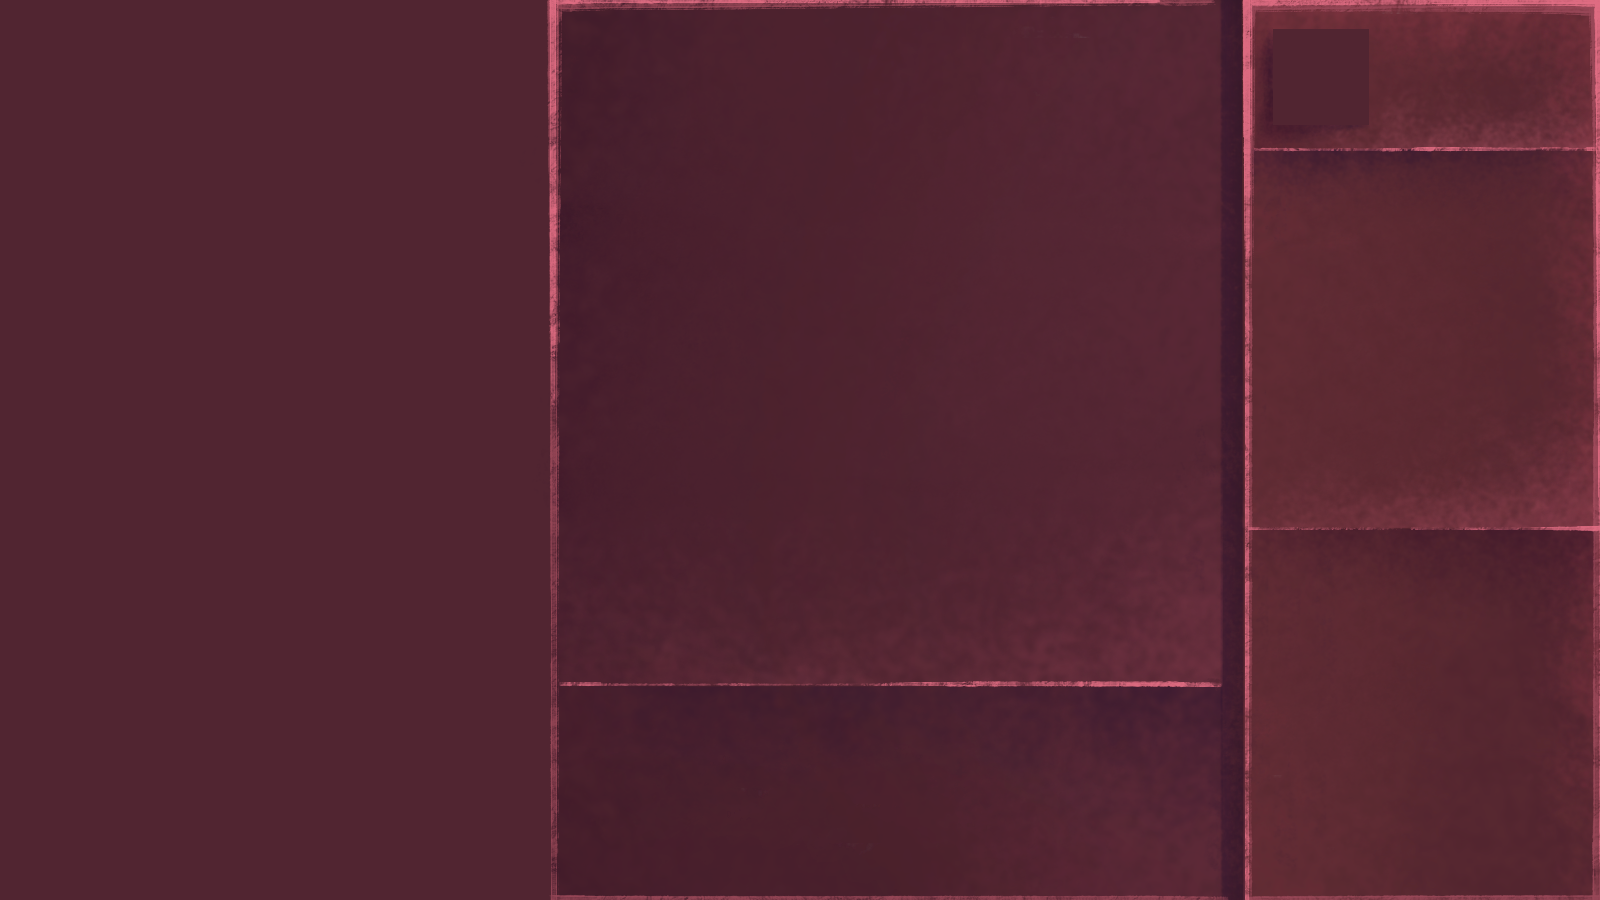
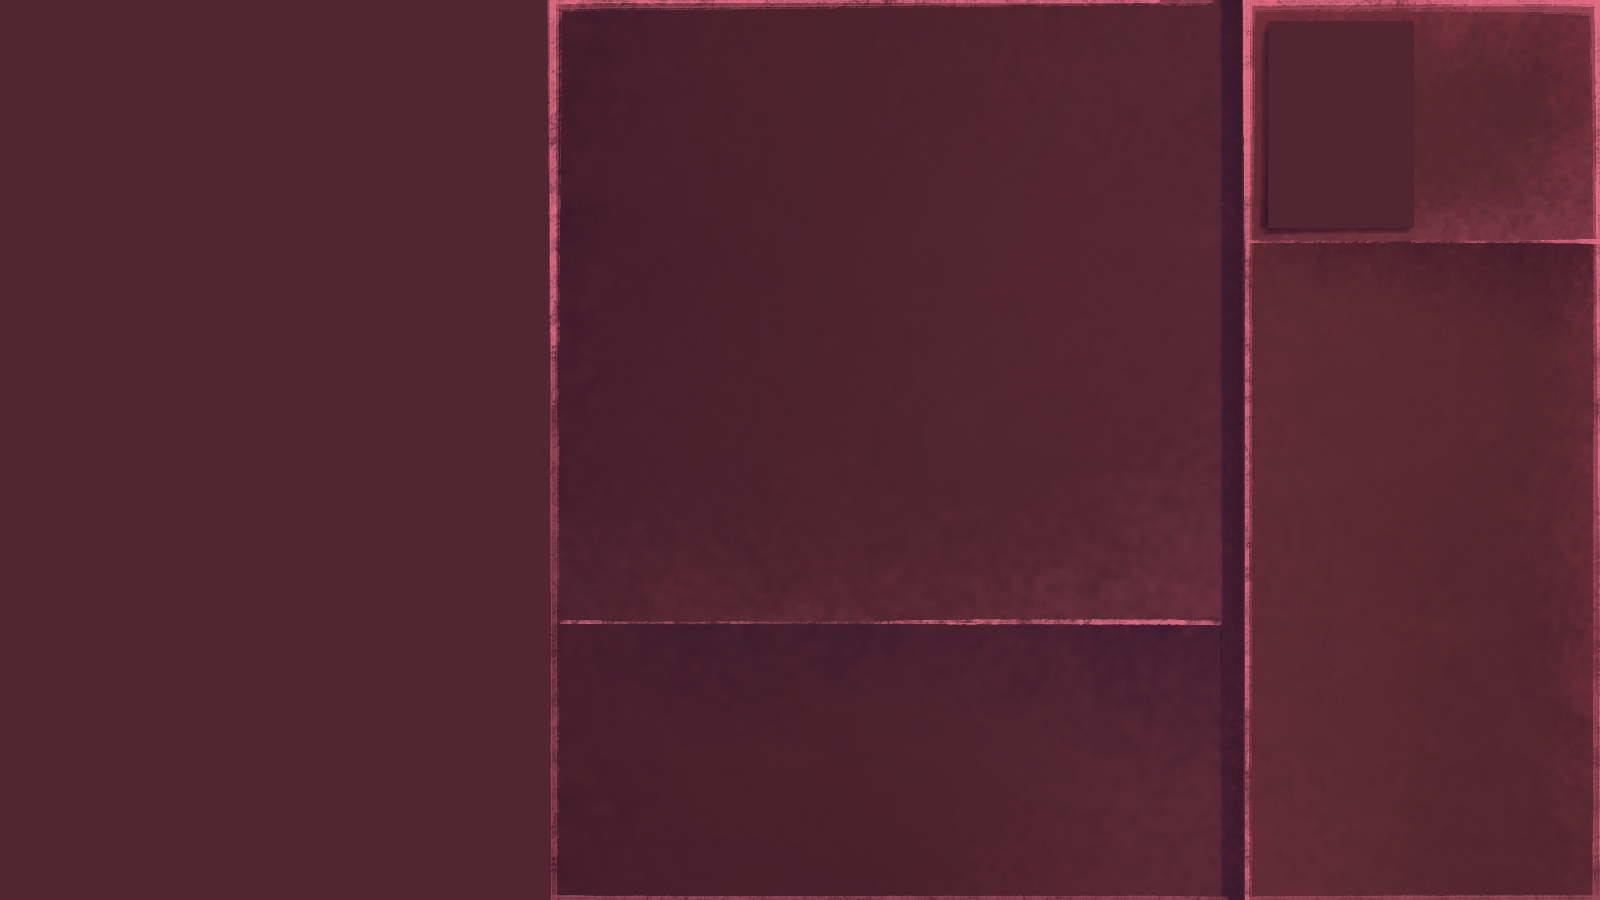
Hud dinâmico com barras e novos assets adicionados
Mudanças:
- Novos assets de telas (modificados após feedback);
- Novos assets de cartas (modificados visando melhor leitura de texto);
- Novos assets para HUD dinâmico (barras);
- HUD dinâmico com barras coloridas funcional;
- Pequena atualização no sprite do diabrete (cauda);

Sugestão de próximos passos:
- Fazer renderização dinâmica de textos das cartas (retirar texto do png, renderizar na engine);
    - Alternativa: Encontrar resolução menor e pré-renderizar pngs com texto nesse tamanho que será usado;
- Fazer implementação simples dos botões do menu principal;
- Implementar tela de exploração.

diff --git a/Rest in Peace/CombatState.cpp b/Rest in Peace/CombatState.cpp
@@ -89,7 +89,7 @@ void CombatState::LoadOpponent(string type) {
 void CombatState::LoadPlayerProfile() {
 	// carrega avatar
 	GameObject* avatar = new GameObject;
-	Component* mugshot = new Sprite(*avatar, "img/MC/avatar.png", 1, 0);
+	Component* mugshot = new Sprite(*avatar, "img/MC/avatar v2.png", 1, 0);
 	avatar->AddComponent(mugshot);
 	avatar->box.MoveThis(*new Vec2(AVATAR_POS_X,AVATAR_POS_Y));
 	AddObject(avatar);
@@ -101,40 +101,104 @@ void CombatState::LoadPlayerProfile() {
 	white.b = 255;
 	white.a = 255;
 
+	SDL_Color black;
+	black.r = 0;
+	black.g = 0;
+	black.b = 0;
+	black.a = 0;
+
+	GameObject* name = new GameObject;
+	Component* nametext = new Text(*name,
+							  "font/nk57-monospace-no-rg.otf", 40,
+							  Text::TextStyle::BLENDED,
+							  "Sofia",
+							  white, 0);
+	name->AddComponent(nametext);
+	name->box.SetCenterPosition(*new Vec2(1505, 40));
+	AddObject(name);
+
 	Player* player = Player::GetInstance();
 
-	string hp = "HP: " + to_string(player->GetHP()) + "/" + to_string(PLAYER_MAX_HP);
+	// Comeca com 5 armor para demonstração
+	player->GainArmor(5);
+
+	// Carrega HUD HP -------------------
+	GameObject* redbar = new GameObject;
+	Component* redbar_img = new Sprite(*redbar, "img/resources/red bar.png", 1, 0);
+	redbar->AddComponent(redbar_img);
+	redbar->box.SetDimensions(HUDBAR_W, HUDBAR_H);
+	redbar->box.MoveThis(*new Vec2(HUD_POS_X, HUD_POS_Y));
+	AddObject(redbar);
+
+	GameObject* hpbar = new GameObject;
+	Component* hpbar_img = new Sprite(*hpbar, "img/resources/green bar.png", 1, 0);
+	hpbar->AddComponent(hpbar_img);
+	hpbar->box.SetDimensions(HUDBAR_W * ((float)player->GetHP()/PLAYER_MAX_HP), HUDBAR_H);
+	hpbar->box.MoveThis(*new Vec2(HUD_POS_X, HUD_POS_Y));
+	playerData.push_back(hpbar);
+
+	string hp = "Vida: " + to_string(player->GetHP()) + "/" + to_string(PLAYER_MAX_HP);
 	GameObject* go_hpdata = new GameObject();
 	Text* hpdata = new Text(*go_hpdata,
-						  "font/nk57-monospace-no-rg.otf", 30,
+						  "font/nk57-monospace-no-rg.otf", 15,
 						  Text::TextStyle::BLENDED,
 						  hp,
 						  white, 0);
 	go_hpdata->AddComponent((Component*) hpdata);
-	go_hpdata->box.SetPosition(*new Vec2(1400,20));
+	go_hpdata->box.SetCenterPosition(redbar->box.GetCenter());
 	playerData.push_back(go_hpdata);
 
-	string ap = "AP: " + to_string(player->GetAP()) + "/" + to_string(PLAYER_MAX_AP);
-	GameObject* go_apdata = new GameObject();
-	Text* apdata = new Text(*go_apdata,
-						  "font/nk57-monospace-no-rg.otf", 30,
-						  Text::TextStyle::BLENDED,
-						  ap,
-						  white, 0);
-	go_apdata->AddComponent((Component*) apdata);
-	go_apdata->box.SetPosition(*new Vec2(1400,60));
-	playerData.push_back(go_apdata);
+	// Carrega HUD SP -----------------------
+	GameObject* graybar = new GameObject;
+	Component* graybar_img = new Sprite(*graybar, "img/resources/gray bar.png", 1, 0);
+	graybar->AddComponent(graybar_img);
+	graybar->box.SetDimensions(HUDBAR_W, HUDBAR_H);
+	graybar->box.MoveThis(*new Vec2(HUD_POS_X, HUD_POS_Y + HUD_Y_OFFSET));
+	AddObject(graybar);
 
-	string sp = "SP: " + to_string(player->GetSP()) + "/" + to_string(PLAYER_MAX_SP);
+	GameObject* spbar = new GameObject;
+	Component* spbar_img = new Sprite(*spbar, "img/resources/white bar.png", 1, 0);
+	spbar->AddComponent(spbar_img);
+	spbar->box.SetDimensions(HUDBAR_W * ((float)player->GetSP()/PLAYER_MAX_SP), HUDBAR_H);
+	spbar->box.MoveThis(*new Vec2(HUD_POS_X, HUD_POS_Y + HUD_Y_OFFSET));
+	playerData.push_back(spbar);
+
+	string sp = "Sanidade: " + to_string(player->GetSP()) + "/" + to_string(PLAYER_MAX_SP);
 	GameObject* go_spdata = new GameObject();
 	Text* spdata = new Text(*go_spdata,
-						  "font/nk57-monospace-no-rg.otf", 30,
+						  "font/nk57-monospace-no-rg.otf", 20,
 						  Text::TextStyle::BLENDED,
 						  sp,
-						  white, 0);
+						  black, 0);
 	go_spdata->AddComponent((Component*) spdata);
-	go_spdata->box.SetPosition(*new Vec2(1400,100));
+	go_spdata->box.SetCenterPosition(graybar->box.GetCenter());
 	playerData.push_back(go_spdata);
+
+	// Carrega HUD Actions ----------------------
+	GameObject* graybar2 = new GameObject;
+	Component* graybar_img2 = new Sprite(*graybar2, "img/resources/gray bar.png", 1, 0);
+	graybar2->AddComponent(graybar_img2);
+	graybar2->box.SetDimensions(HUDBAR_W, HUDBAR_H);
+	graybar2->box.MoveThis(*new Vec2(HUD_POS_X, HUD_POS_Y + (2 * HUD_Y_OFFSET)));
+	AddObject(graybar2);
+
+	GameObject* apbar = new GameObject;
+	Component* apbar_img = new Sprite(*apbar, "img/resources/yellow bar.png", 1, 0);
+	apbar->AddComponent(apbar_img);
+	apbar->box.SetDimensions(HUDBAR_W * ((float)player->GetAP()/PLAYER_MAX_AP), HUDBAR_H);
+	apbar->box.MoveThis(*new Vec2(HUD_POS_X, HUD_POS_Y + (2 * HUD_Y_OFFSET)));
+	playerData.push_back(spbar);
+
+	string ap = "Acoes: " + to_string(player->GetAP()) + "/" + to_string(PLAYER_MAX_AP);
+	GameObject* go_apdata = new GameObject();
+	Text* apdata = new Text(*go_apdata,
+						  "font/nk57-monospace-no-rg.otf", 20,
+						  Text::TextStyle::BLENDED,
+						  ap,
+						  black, 0);
+	go_apdata->AddComponent((Component*) apdata);
+	go_apdata->box.SetCenterPosition(graybar2->box.GetCenter());
+	playerData.push_back(go_apdata);
 }
 
 void CombatState::LoadCombatAssets() {
@@ -147,41 +211,95 @@ void CombatState::UpdatePlayerData() {
 	white.g = 255;
 	white.b = 255;
 	white.a = 255;
-	playerData.clear();
+
+	SDL_Color black;
+	black.r = 0;
+	black.g = 0;
+	black.b = 0;
+	black.a = 0;
+
 	Player* player = Player::GetInstance();
 
-	string hp = "HP: " + to_string(player->GetHP()) + "/" + to_string(PLAYER_MAX_HP);
+	// Atualiza HUD HP ---------------------
+	GameObject* hpbar = new GameObject;
+	Component* hpbar_img = new Sprite(*hpbar, "img/resources/green bar.png", 1, 0);
+	hpbar->AddComponent(hpbar_img);
+	hpbar->box.SetDimensions(HUDBAR_W * ((float)player->GetHP()/PLAYER_MAX_HP), HUDBAR_H);
+	hpbar->box.MoveThis(*new Vec2(HUD_POS_X, HUD_POS_Y));
+
+	string hp = "Vida: " + to_string(player->GetHP()) + "/" + to_string(PLAYER_MAX_HP);
 	GameObject* go_hpdata = new GameObject();
 	Text* hpdata = new Text(*go_hpdata,
-						  "font/nk57-monospace-no-rg.otf", 30,
+						  "font/nk57-monospace-no-rg.otf", 18,
 						  Text::TextStyle::BLENDED,
 						  hp,
 						  white, 0);
 	go_hpdata->AddComponent((Component*) hpdata);
-	go_hpdata->box.SetPosition(*new Vec2(1400,20));
-	playerData.push_back(go_hpdata);
+	go_hpdata->box.SetCenterPosition(playerData[1]->box.GetCenter());
 
-	string ap = "AP: " + to_string(player->GetAP()) + "/" + to_string(PLAYER_MAX_AP);
-	GameObject* go_apdata = new GameObject();
-	Text* apdata = new Text(*go_apdata,
-						  "font/nk57-monospace-no-rg.otf", 30,
-						  Text::TextStyle::BLENDED,
-						  ap,
-						  white, 0);
-	go_apdata->AddComponent((Component*) apdata);
-	go_apdata->box.SetPosition(*new Vec2(1400,60));
-	playerData.push_back(go_apdata);
+	// Atualiza HUD SP -------------------------------
+	GameObject* spbar = new GameObject;
+	Component* spbar_img = new Sprite(*spbar, "img/resources/white bar.png", 1, 0);
+	spbar->AddComponent(spbar_img);
+	spbar->box.SetDimensions(HUDBAR_W * ((float)player->GetSP()/PLAYER_MAX_SP), HUDBAR_H);
+	spbar->box.MoveThis(*new Vec2(HUD_POS_X, HUD_POS_Y + HUD_Y_OFFSET));
 
-	string sp = "SP: " + to_string(player->GetSP()) + "/" + to_string(PLAYER_MAX_SP);
+	string sp = "Sanidade: " + to_string(player->GetSP()) + "/" + to_string(PLAYER_MAX_SP);
 	GameObject* go_spdata = new GameObject();
 	Text* spdata = new Text(*go_spdata,
-						  "font/nk57-monospace-no-rg.otf", 30,
+						  "font/nk57-monospace-no-rg.otf", 15,
 						  Text::TextStyle::BLENDED,
 						  sp,
-						  white, 0);
+						  black, 0);
 	go_spdata->AddComponent((Component*) spdata);
-	go_spdata->box.SetPosition(*new Vec2(1400,100));
+	go_spdata->box.SetCenterPosition(playerData[3]->box.GetCenter());
+
+	// Atualiza HUD Actions ----------------------------
+	GameObject* apbar = new GameObject;
+	Component* apbar_img = new Sprite(*apbar, "img/resources/yellow bar.png", 1, 0);
+	apbar->AddComponent(apbar_img);
+	apbar->box.SetDimensions(HUDBAR_W * ((float)player->GetAP()/PLAYER_MAX_AP), HUDBAR_H);
+	apbar->box.MoveThis(*new Vec2(HUD_POS_X, HUD_POS_Y + (2 * HUD_Y_OFFSET)));
+
+	string ap = "Acoes: " + to_string(player->GetAP()) + "/" + to_string(PLAYER_MAX_AP);
+	GameObject* go_apdata = new GameObject();
+	Text* apdata = new Text(*go_apdata,
+						  "font/nk57-monospace-no-rg.otf", 20,
+						  Text::TextStyle::BLENDED,
+						  ap,
+						  black, 0);
+	go_apdata->AddComponent((Component*) apdata);
+	go_apdata->box.SetCenterPosition(playerData[5]->box.GetCenter());
+
+	playerData.clear();
+	playerData.push_back(hpbar);
+	playerData.push_back(go_hpdata);
+	playerData.push_back(spbar);
 	playerData.push_back(go_spdata);
+	playerData.push_back(apbar);
+	playerData.push_back(go_apdata);
+
+	// Atualiza HUD Armor -------------------------
+	if (player->GetArmor() != 0) {
+		GameObject* bluebar = new GameObject;
+		Component* bluebar_img = new Sprite(*bluebar, "img/resources/blue bar.png", 1, 0);
+		bluebar->AddComponent(bluebar_img);
+		bluebar->box.SetDimensions(HUDBAR_W, HUDBAR_H);
+		bluebar->box.MoveThis(*new Vec2(HUD_POS_X, HUD_POS_Y + (3 * HUD_Y_OFFSET)));
+
+		string armor = "Armadura: " + to_string(player->GetArmor());
+		GameObject* go_armordata = new GameObject();
+		Text* armordata = new Text(*go_armordata,
+							  "font/nk57-monospace-no-rg.otf", 18,
+							  Text::TextStyle::BLENDED,
+							  armor,
+							  white, 0);
+		go_armordata->AddComponent((Component*) armordata);
+		go_armordata->box.SetCenterPosition(bluebar->box.GetCenter());
+
+		playerData.push_back(bluebar);
+		playerData.push_back(go_armordata);
+	}
 }
 
 void CombatState::Update(float dt) {
@@ -201,6 +319,7 @@ void CombatState::Update(float dt) {
 		player->Heal(1);
 		player->ResetAP();
 		player->GainSP(1);
+		player->GainArmor(1);
 	}
 
 	UpdatePlayerData();

diff --git a/Rest in Peace/CombatState.h b/Rest in Peace/CombatState.h
@@ -4,9 +4,14 @@
 #include "State.h"
 #include "Music.h"
 
-#define AVATAR_POS_X 1273
-#define AVATAR_POS_Y 29
-#define AVATAR_SIZE 96
+#define AVATAR_POS_X 1268
+#define AVATAR_POS_Y 21
+#define AVATAR_SIZE 146
+#define HUDBAR_W 150
+#define HUDBAR_H 25
+#define HUD_POS_Y 85
+#define HUD_Y_OFFSET 35
+#define HUD_POS_X 1430
 #define ILLUST_CENTER_X 275
 #define ILLUST_CENTER_Y 450
 #define ILLUST_W 550
